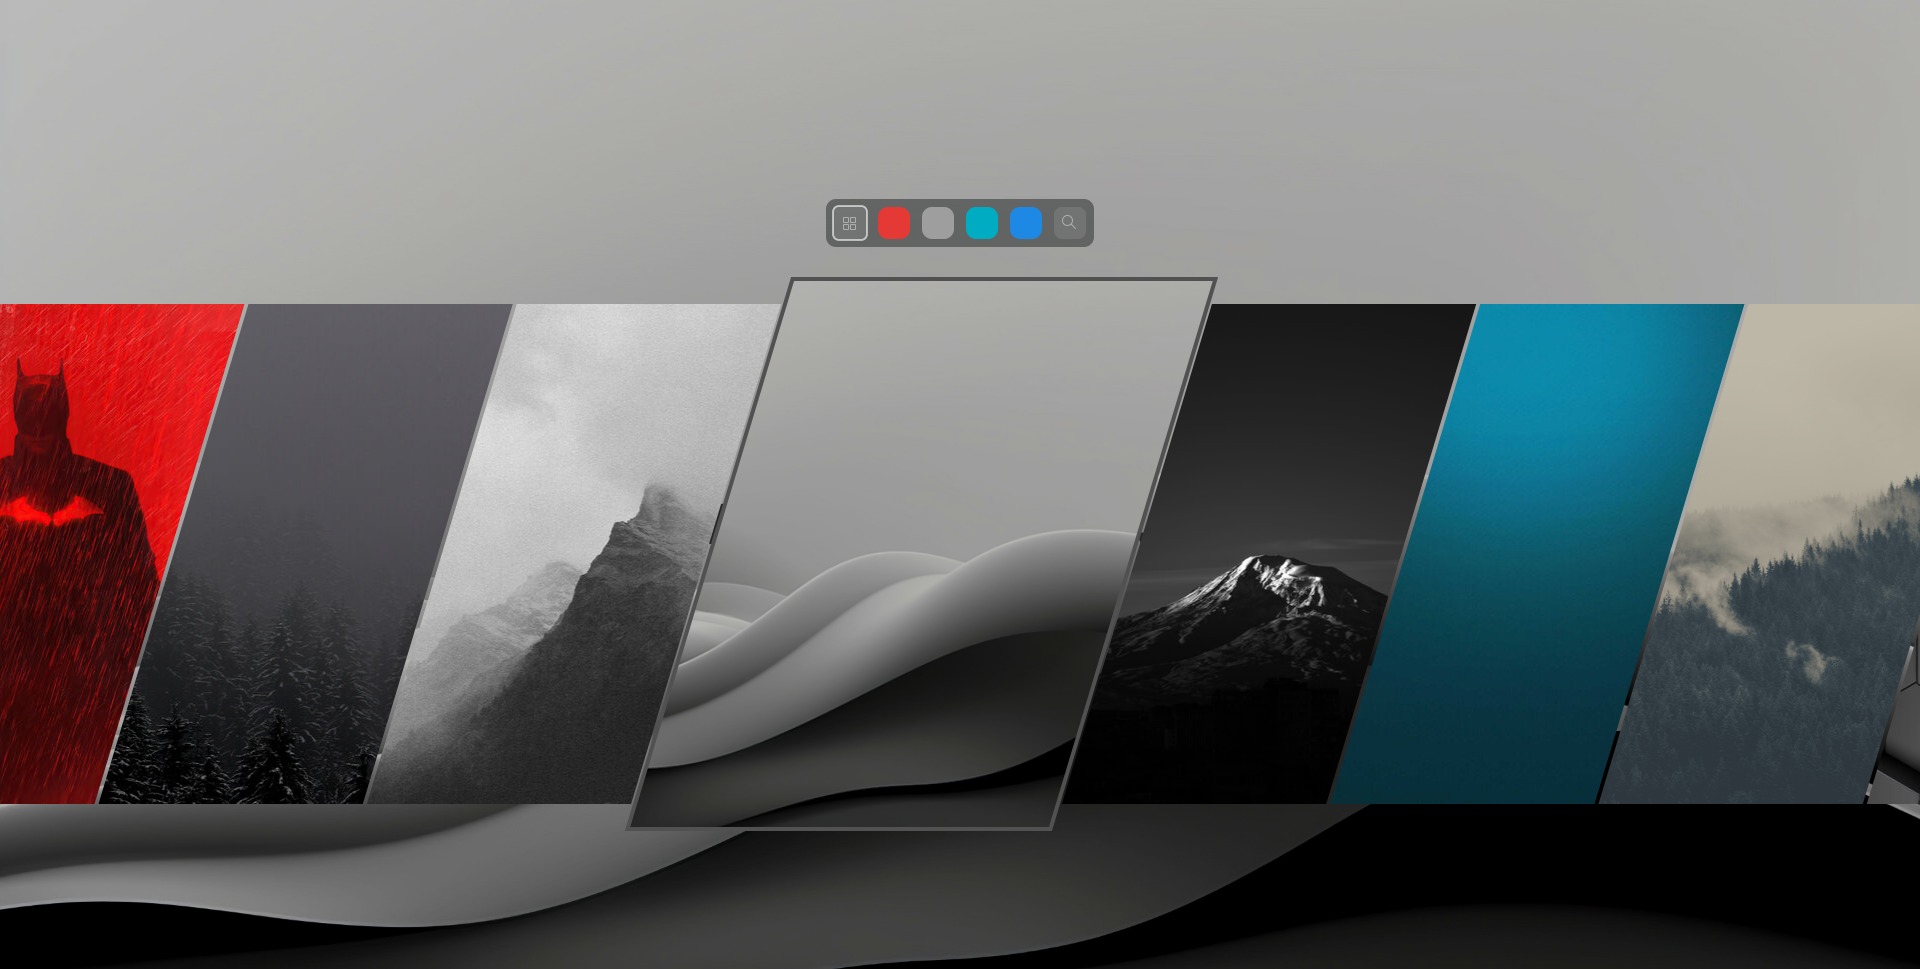
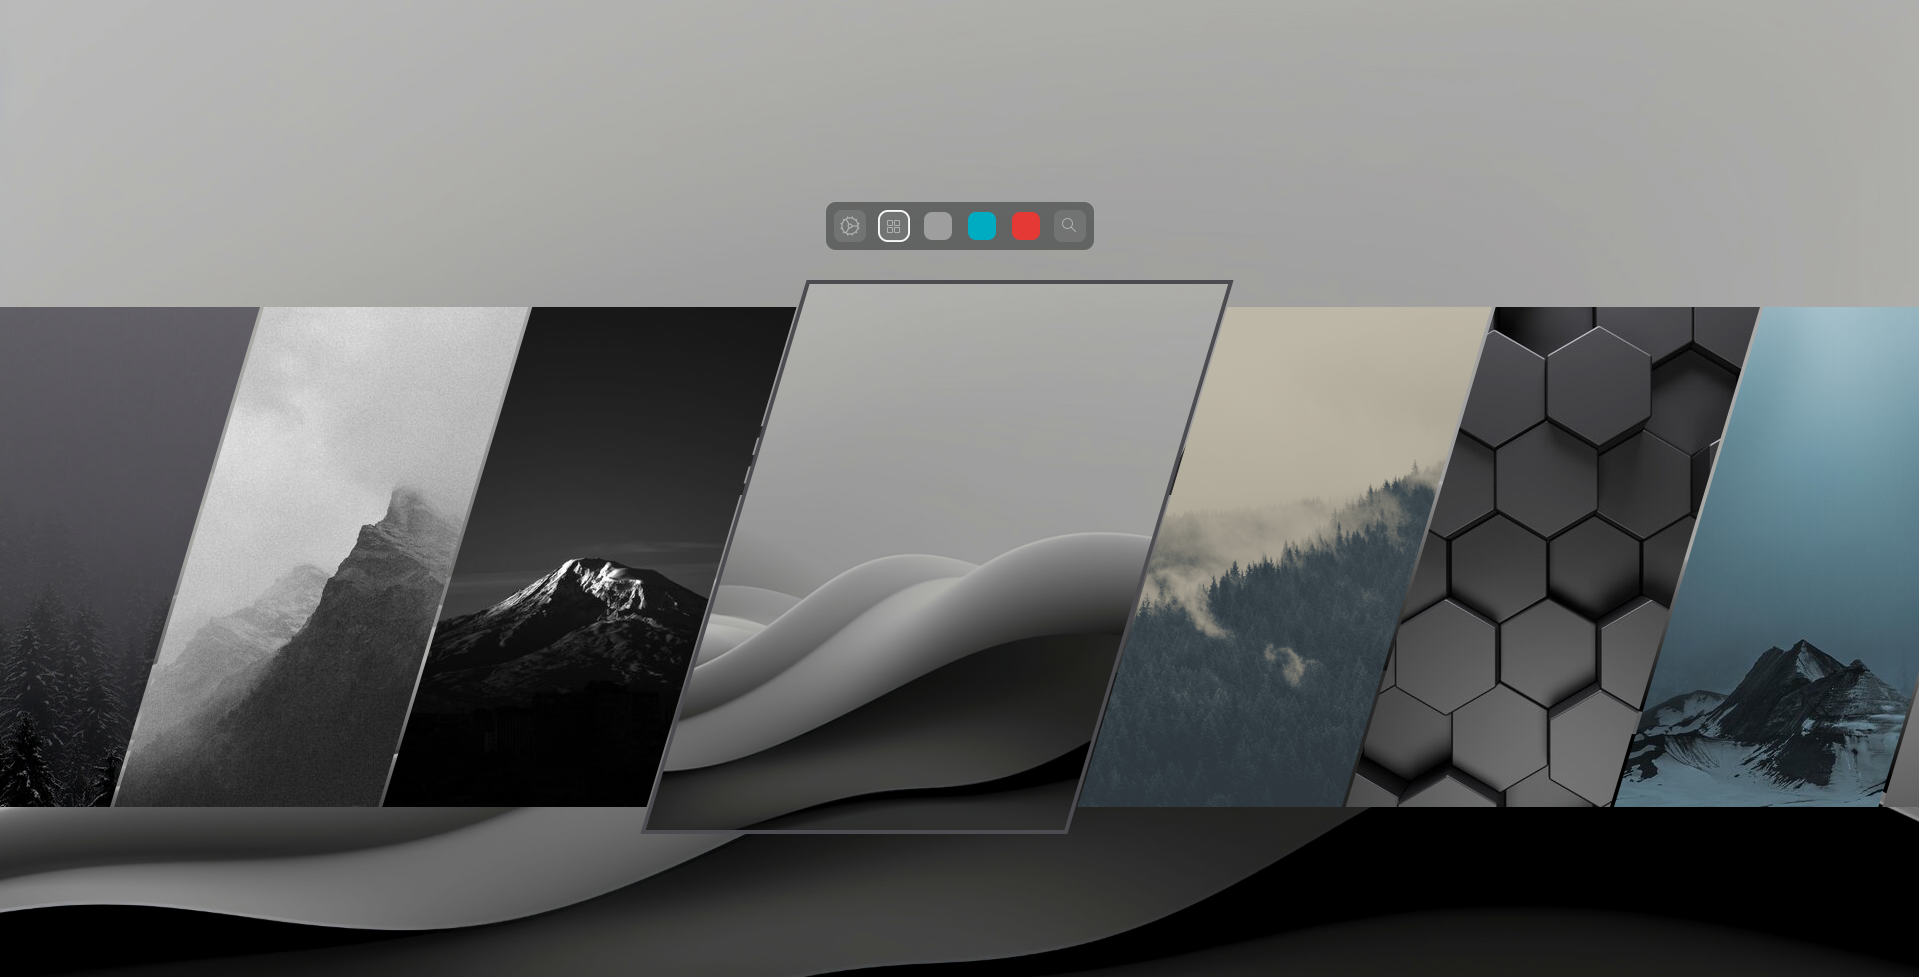
docs: update README

diff --git a/README.md b/README.md
@@ -29,6 +29,10 @@ The project provides a standalone GNOME implementation inspired by the workflow 
 
 ![Color filter](assets/color-filter.png)
 
+### Settings Panel
+
+![Settings panel](assets/settings-panel.png)
+
 ## Requirements
 
 - Python 3
@@ -96,7 +100,7 @@ The application is installed to:
 ~/.local/share/hyprquickpaper-gnome
 ```
 
-The installer asks where your wallpapers are stored and which GNOME keyboard shortcut should open the picker.
+The installer asks where your wallpapers are stored and which GNOME keyboard shortcut should open the selector.
 
 The default shortcut is:
 
